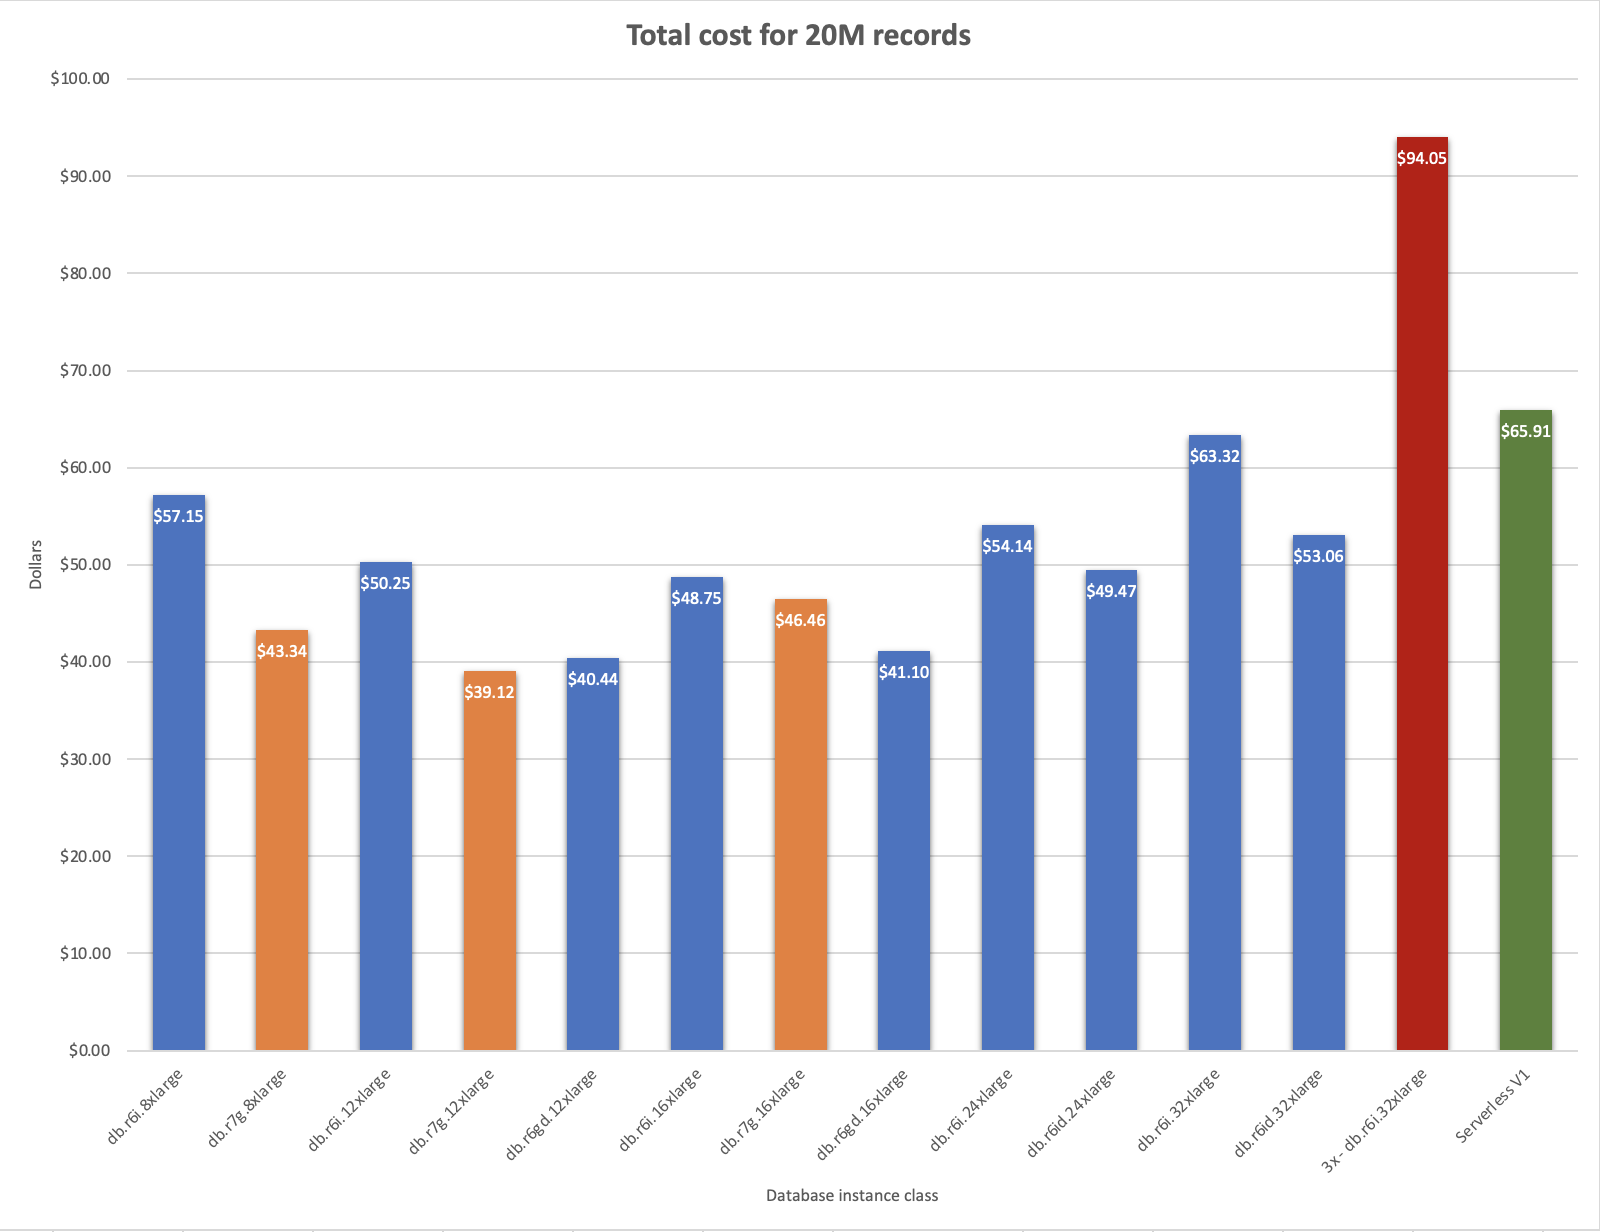
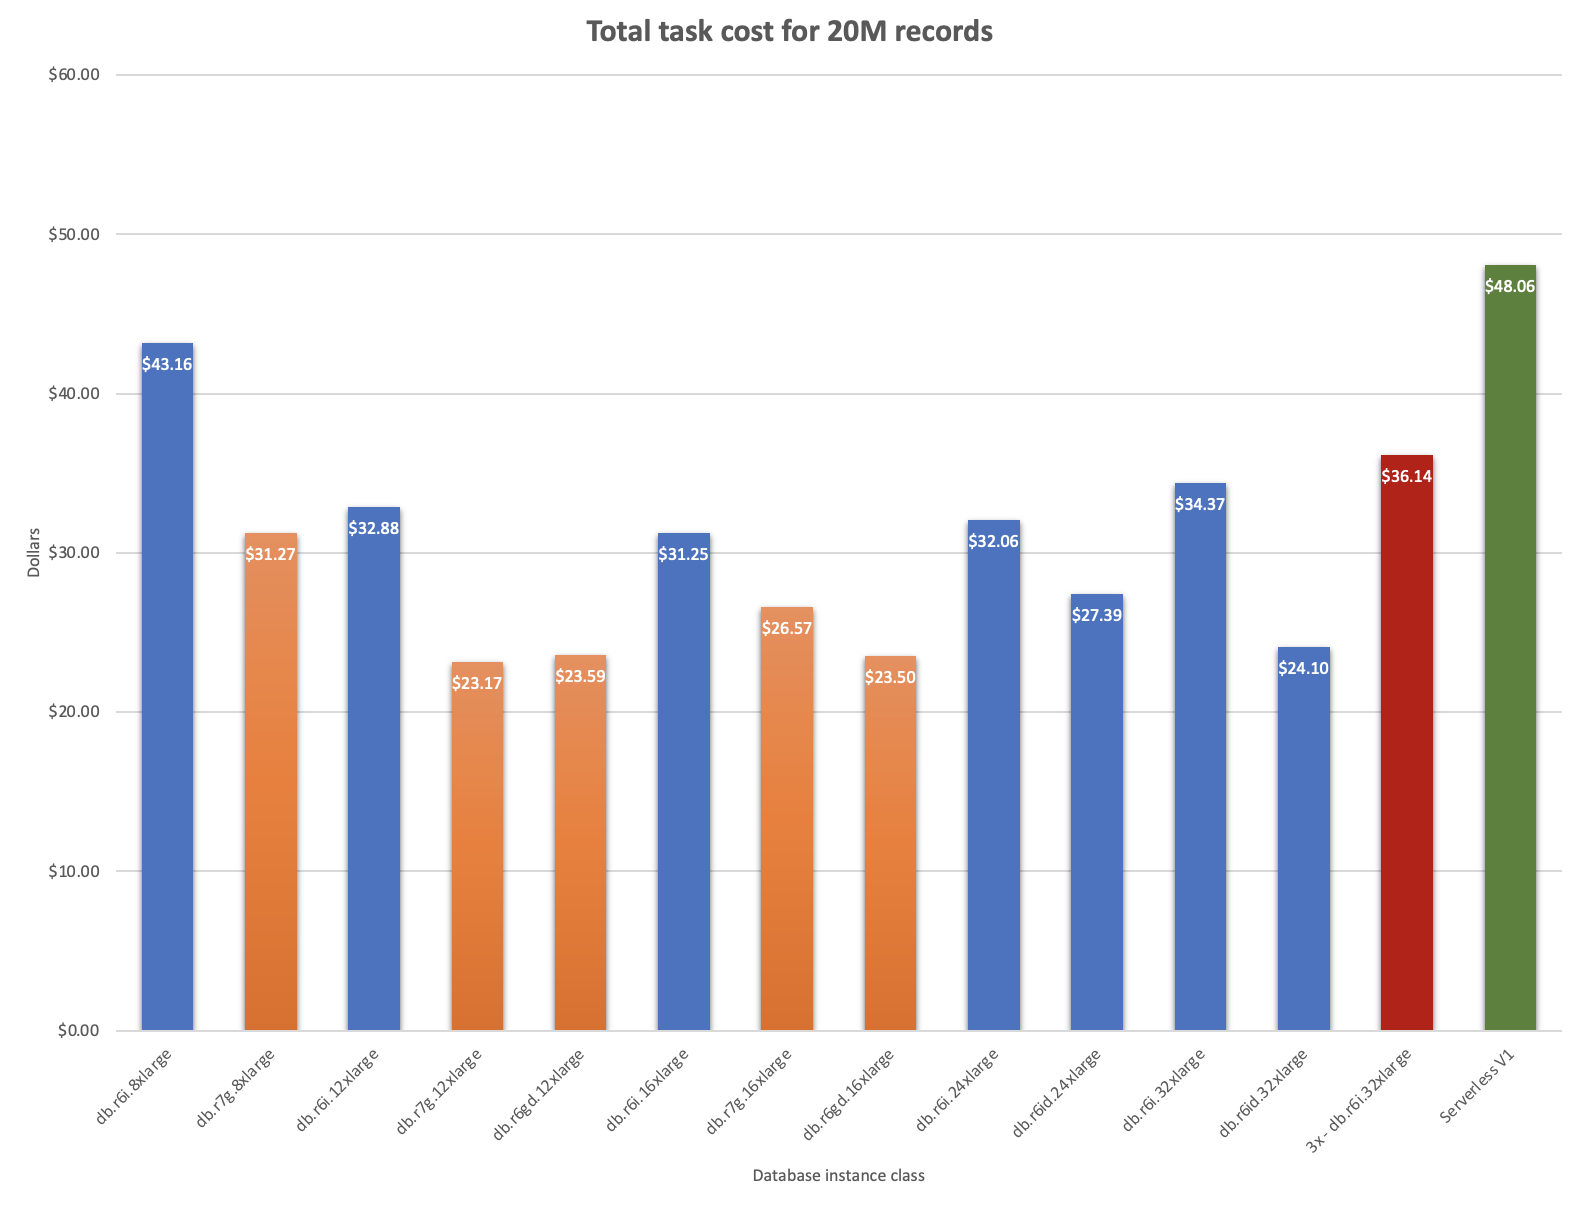
#49 added updated report

diff --git a/reports/20231220-provisioned-single-DB/report.md b/reports/20231220-provisioned-single-DB/report.md
@@ -124,8 +124,8 @@ Based on this, there appears to be a "sweet spot" that is a balance between perf
 
 #### New instance classes tests (2023 Dec 20)
 
-The new instance classes r6gd and r6id did not seem to perform any differently their non-*d equivalents.  Pricing for these instance classes was not available at the
-time of writing this report, so it's unknown if the cost is any better.
+The new optimized read instance classes (r6gd and r6id) did not seem to perform any differently their non-optimized read equivalents.  Pricing for these instance classes was not available at the time of writing this report.  _The above charts base cost on their non-optimized read equivalents._  Using the same pricing as the
+non-optimized read instance class, there seems to be a cost saving associated with the r6id instance class.
 
 ## Further work
 
